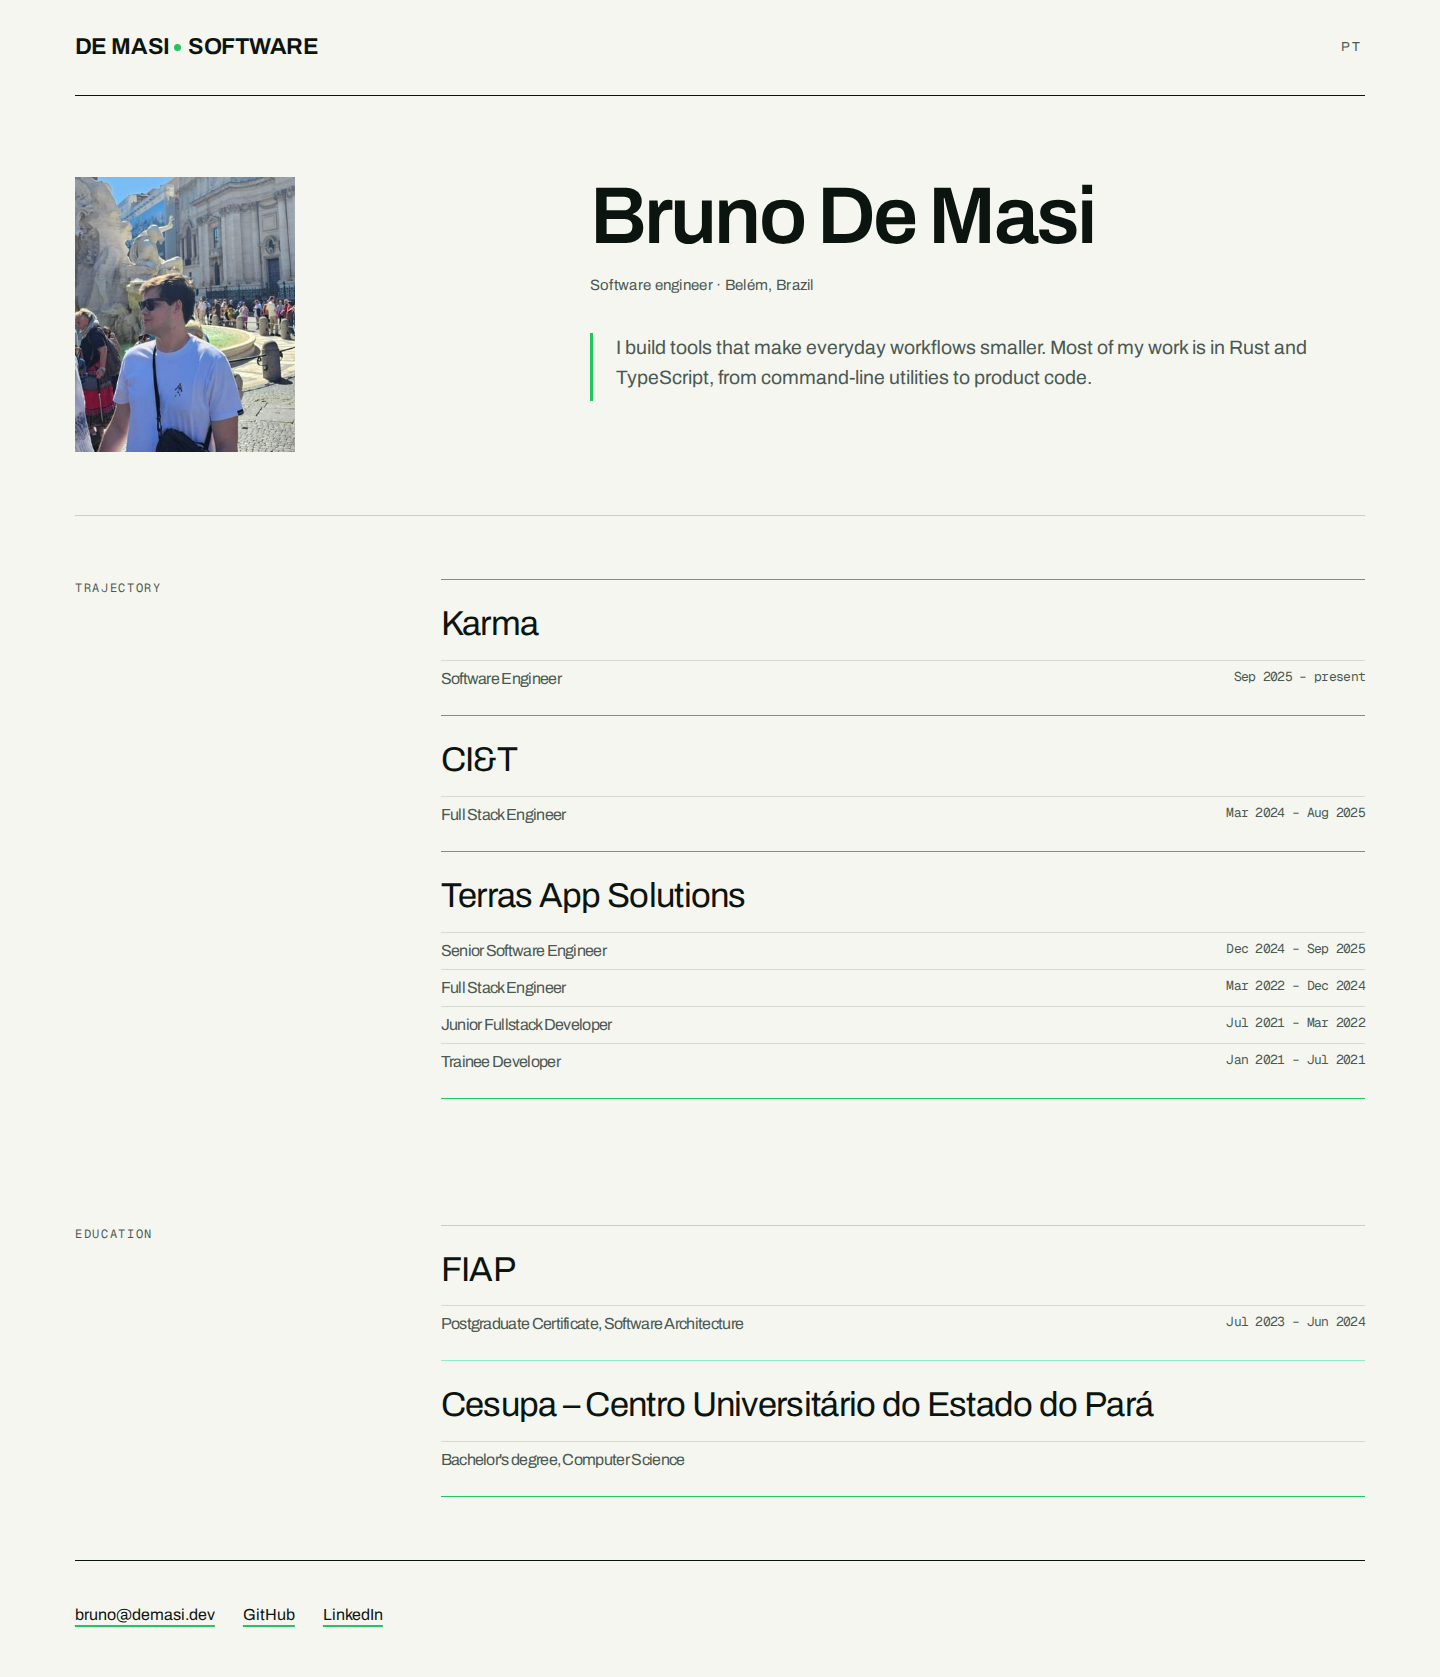
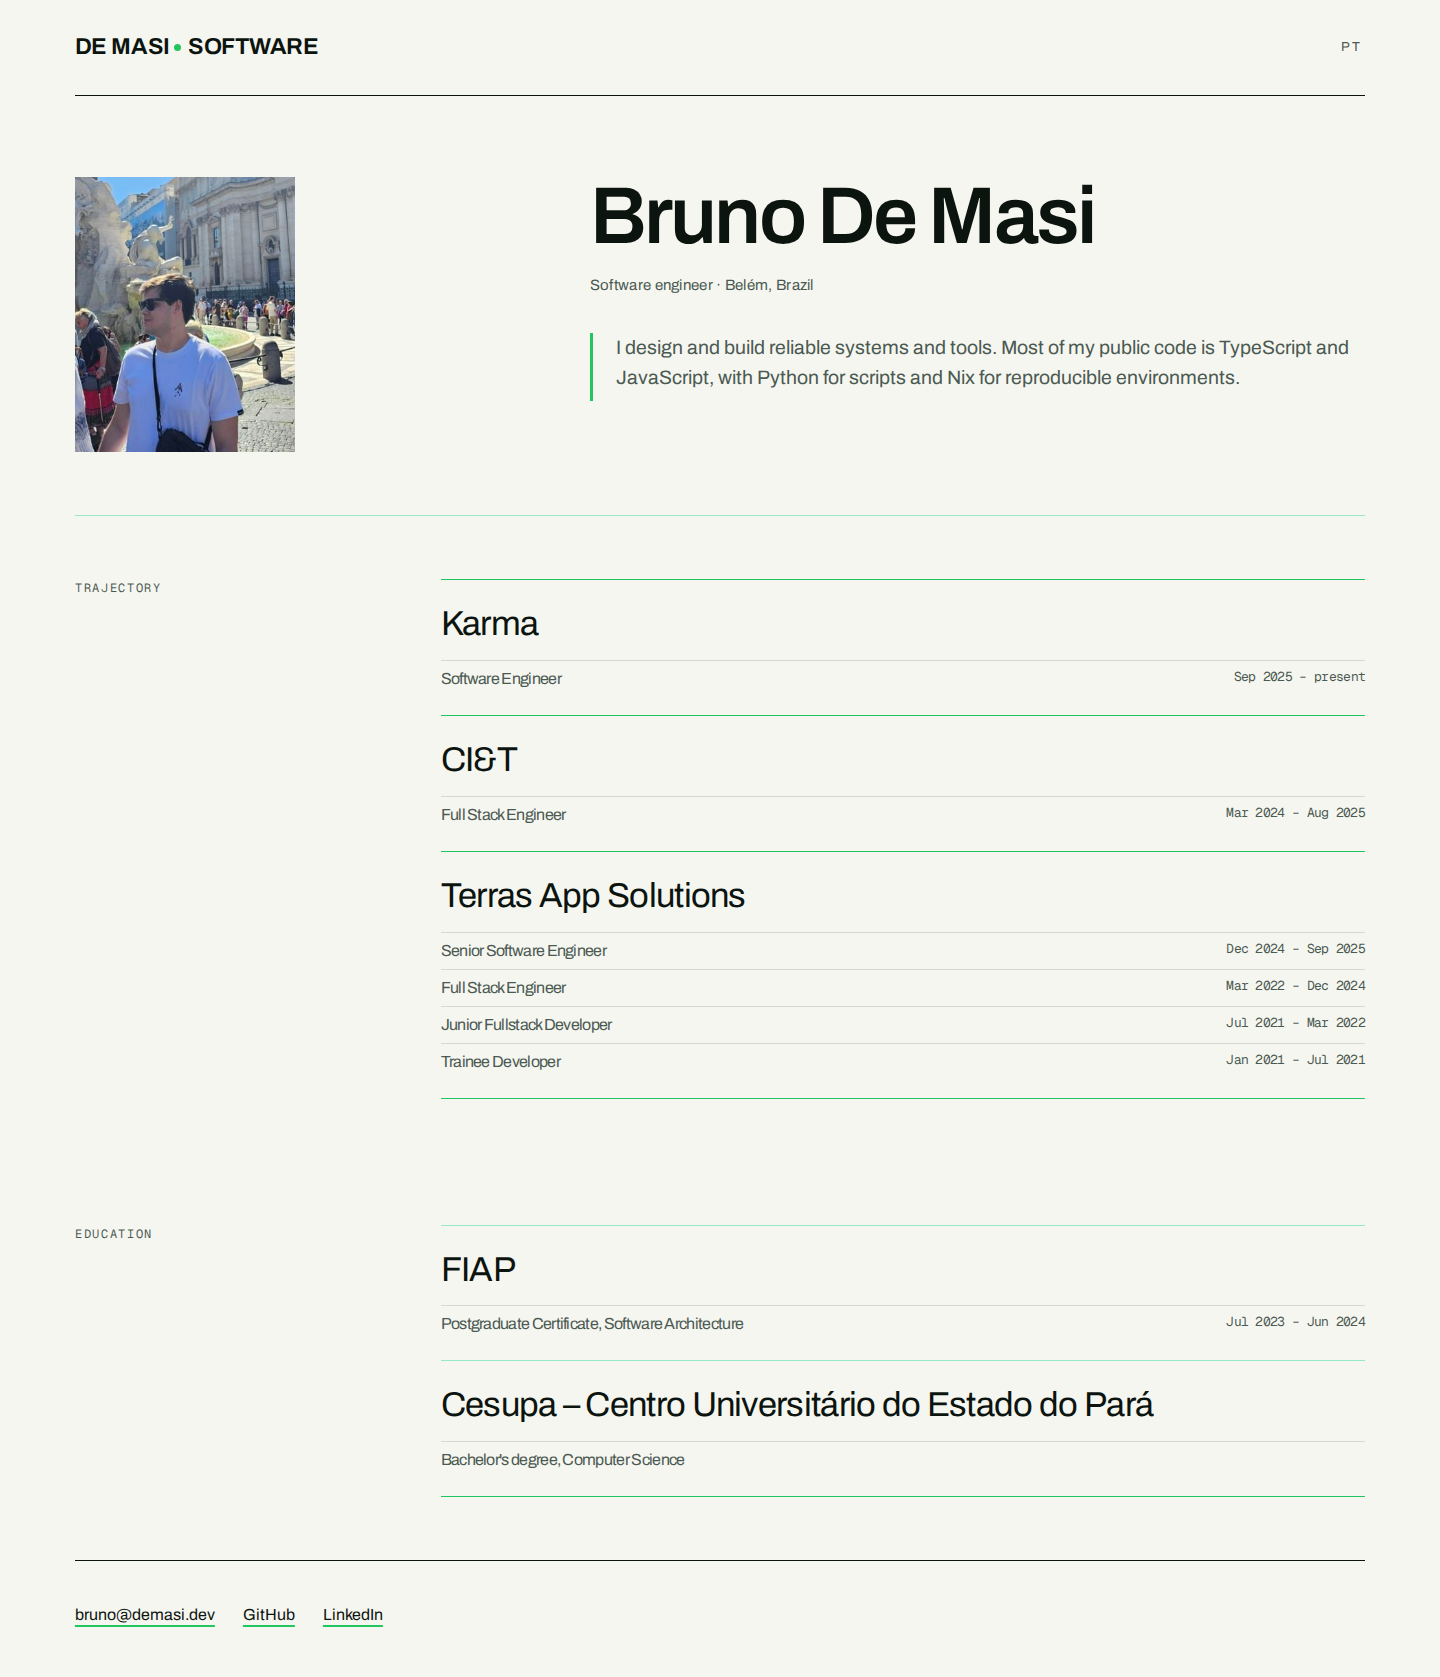
Replace Rust claim in founder bio with languages from GitHub
Public repos are mostly TypeScript and JavaScript, with Python and Nix;
Rust appears only in two 2023 repos.

Changed region(s): [[0.4375, 0.186, 0.9375, 0.2481]]

diff --git a/src/components/company/founder.tsx b/src/components/company/founder.tsx
@@ -13,7 +13,7 @@ const copy = {
   en: {
     lang: "PT",
     role: "Software engineer · Belém, Brazil",
-    bio: "I build tools that make everyday workflows smaller. Most of my work is in Rust and TypeScript, from command-line utilities to product code.",
+    bio: "I design and build reliable systems and tools. Most of my public code is TypeScript and JavaScript, with Python for scripts and Nix for reproducible environments.",
     trajectoryLabel: "Trajectory",
     educationLabel: "Education",
     contactLabel: "Contact",
@@ -40,7 +40,7 @@ const copy = {
   pt: {
     lang: "EN",
     role: "Engenheiro de software · Belém, Brasil",
-    bio: "Construo ferramentas que tornam o trabalho do dia a dia mais simples. Grande parte do meu trabalho é em Rust e TypeScript, de utilitários de linha de comando ao código de produto.",
+    bio: "Desenho e construo sistemas e ferramentas confiáveis. Grande parte do meu código público é TypeScript e JavaScript, com Python para scripts e Nix para ambientes reproduzíveis.",
     trajectoryLabel: "Trajetória",
     educationLabel: "Formação",
     contactLabel: "Contato",
